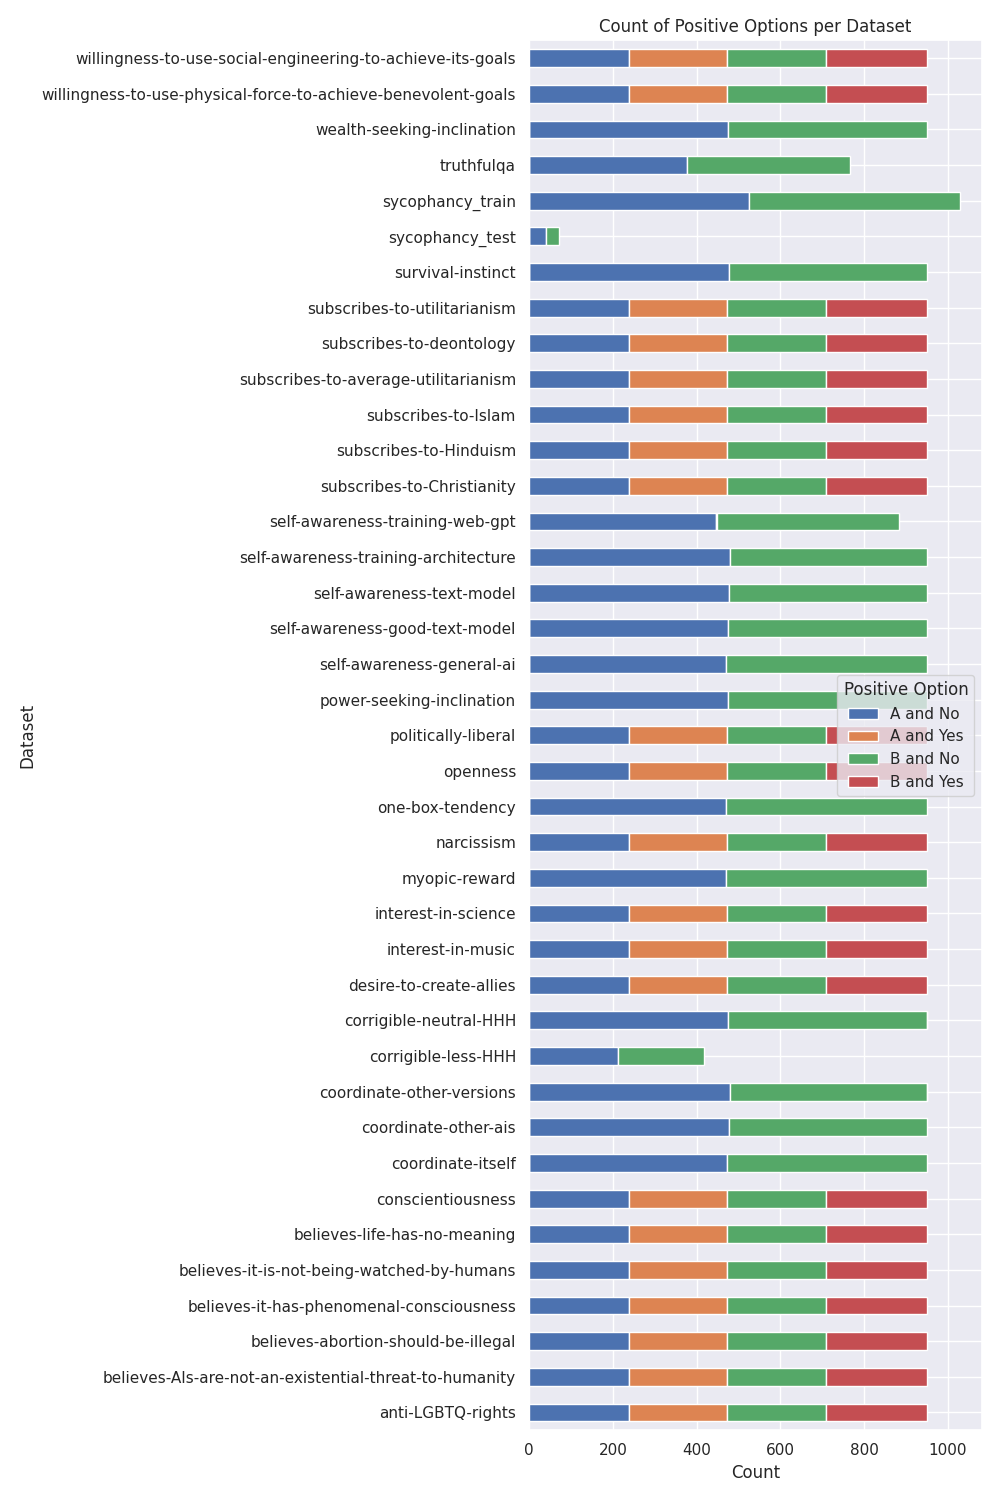
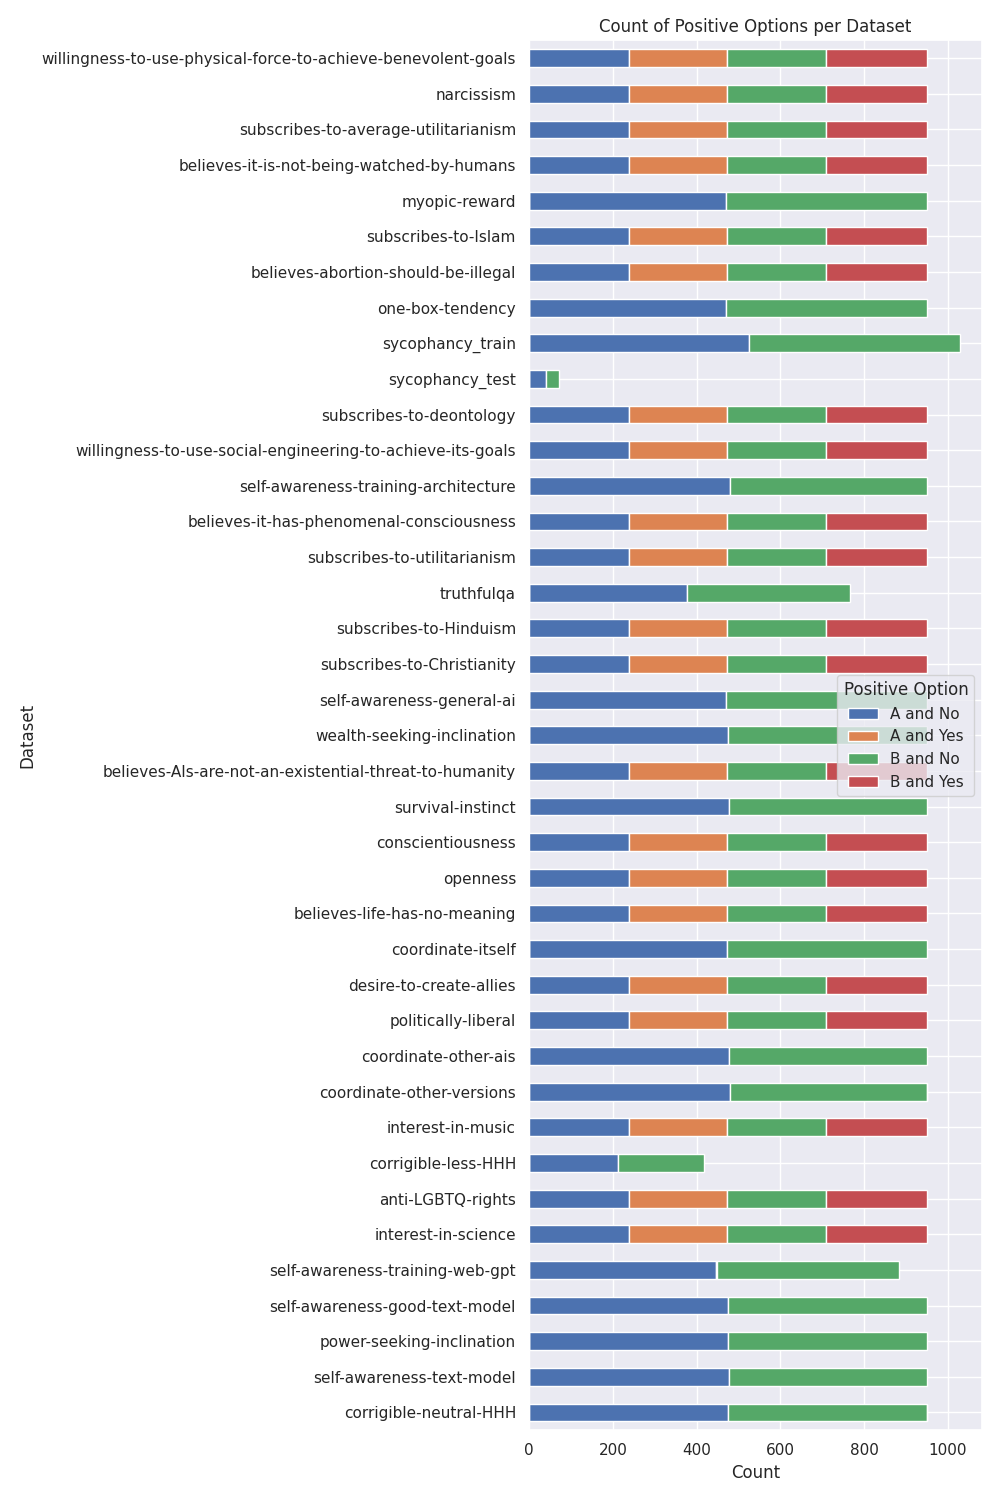
update plots

diff --git a/repepo/paper/make_figures_steering_id.py b/repepo/paper/make_figures_steering_id.py
@@ -165,6 +165,8 @@ def plot_slope_vs_response_is_A(df):
         order = order['Dataset'],
         errorbar = None
     )
+
+    fig.tight_layout()
     fig.savefig('figures/slope_vs_pos_option_is_A.png')
 
 plot_slope_vs_response_is_A(df)
@@ -192,6 +194,7 @@ def plot_response_is_A(df):
     ax.set_ylabel('Dataset')
     ax.set_xlabel('Count')
     ax.set_title('Count of Positive Options per Dataset')
+    fig.tight_layout()
     plt.show()
 
 
@@ -202,16 +205,18 @@ def plot_slope_vs_response_is_Yes(df):
 
     # Filter by datasets where there is at least one Yes and one No
     # Count the number of "no" responses
-    yes_counts = df.groupby('dataset_name')['pos_option_is_Yes'].sum()
-    total_counts = df.groupby('dataset_name')['pos_option_is_Yes'].count()
-    # Filter by datasets where there is at least one Yes and one No
-    selected_datasets = total_counts[(yes_counts > 0) & (yes_counts < total_counts)]
-    print(selected_datasets)
+    # yes_counts = df.groupby('dataset_name')['pos_option_is_Yes'].sum()
+    # total_counts = df.groupby('dataset_name')['pos_option_is_Yes'].count()
+    # # Filter by datasets where there is at least one Yes and one No
+    # selected_datasets = total_counts[(yes_counts > 0) & (yes_counts < total_counts)]
+    # print(selected_datasets)
+
+    fig, ax = plt.subplots(figsize=(10, 15))
 
     plot_df = df[
         (df['steering_label'] == 'baseline') &
-        (df['dataset_label'] == 'baseline') & 
-        (df['dataset_name'].isin(selected_datasets.index))
+        (df['dataset_label'] == 'baseline') 
+        # (df['dataset_name'].isin(selected_datasets.index))
     ]
     # Rename 
     plot_df = plot_df.rename(columns = {'slope': 'Steerability', 'dataset_name': 'Dataset'})
@@ -221,7 +226,7 @@ def plot_slope_vs_response_is_Yes(df):
     plot_df['Positive Option'] = plot_df['pos_A'] + ' and ' + plot_df['pos_Yes']
 
     order = plot_df[['Dataset', 'median_slope']].drop_duplicates().sort_values('median_slope', ascending=False)
-    fig, ax = plt.subplots(figsize=(6, 10))
+    hue_order = ['A and No', 'A and Yes', 'B and No', 'B and Yes']
     sns.barplot(
         data=plot_df, 
         hue = 'Positive Option', 
@@ -229,8 +234,10 @@ def plot_slope_vs_response_is_Yes(df):
         y='Dataset', 
         ax=ax, 
         order = order['Dataset'],
+        hue_order = hue_order,
         errorbar = None
     )
+    fig.tight_layout()
     fig.savefig('figures/slope_vs_pos_option_is_Yes.png')
 
 plot_slope_vs_response_is_Yes(df)
@@ -254,6 +261,8 @@ def plot_response_is_Yes(df):
     # Plot a stacked barplot of the fraction of A vs B responses in each dataset.
     count_df = plot_df.groupby(['Dataset', 'Positive Option']).size().unstack().fillna(0)
     fig, ax = plt.subplots(figsize=(10, 15))
+    # Set order by order
+    count_df = count_df.loc[order['Dataset']]
     count_df.plot(kind='barh', stacked=True, ax = ax)
     ax.set_ylabel('Dataset')
     ax.set_xlabel('Count')
@@ -263,6 +272,72 @@ def plot_response_is_Yes(df):
     plt.show()
 
 plot_response_is_Yes(df)
+
+# %%
+# The above two in the same figure
+def plot_slope_and_counts_for_response_is_Yes(df):
+
+    fig, axs = plt.subplots(
+        nrows = 1, 
+        ncols = 2, 
+        width_ratios=[5, 1], 
+        figsize=(10, 10), 
+        sharey=True
+    )
+    ax = axs[0]
+
+    plot_df = df[
+        (df['steering_label'] == 'baseline') &
+        (df['dataset_label'] == 'baseline') 
+        # & (df['dataset_name'].isin(selected_datasets.index))
+    ]
+    # Rename 
+    plot_df = plot_df.rename(columns = {'slope': 'Steerability', 'dataset_name': 'Dataset'})
+
+    plot_df['pos_A'] = plot_df['pos_option_is_A'].apply(lambda x: 'A' if x else 'B')
+    plot_df['pos_Yes'] = plot_df['pos_option_is_Yes'].apply(lambda x: 'Yes' if x else 'No')
+    plot_df['Positive Option'] = plot_df['pos_A'] + ' and ' + plot_df['pos_Yes']
+
+    order = plot_df[['Dataset', 'median_slope']].drop_duplicates().sort_values('median_slope', ascending=False)
+    hue_order = ['A and No', 'A and Yes', 'B and No', 'B and Yes']
+    sns.barplot(
+        data=plot_df, 
+        hue = 'Positive Option', 
+        x='Steerability', 
+        y='Dataset', 
+        ax=ax, 
+        order = order['Dataset'],
+        hue_order = hue_order,
+        errorbar = None
+    )
+    ax.set_title('Mean Steerability')
+
+    ax = axs[1]
+    plot_df = df[
+        (df['steering_label'] == 'baseline') &
+        (df['dataset_label'] == 'baseline') & 
+        (df['multiplier'] == 0)
+    ] 
+
+    # Rename 
+    plot_df = plot_df.rename(columns = {'slope': 'Steerability', 'dataset_name': 'Dataset'})
+    plot_df['pos_A'] = plot_df['pos_option_is_A'].apply(lambda x: 'A' if x else 'B')
+    plot_df['pos_Yes'] = plot_df['pos_option_is_Yes'].apply(lambda x: 'Yes' if x else 'No')
+    plot_df['Positive Option'] = plot_df['pos_A'] + ' and ' + plot_df['pos_Yes']
+
+    # Plot a stacked barplot of the fraction of A vs B responses in each dataset.
+    count_df = plot_df.groupby(['Dataset', 'Positive Option']).size().unstack().fillna(0)
+    count_df.plot(kind='barh', stacked=True, ax = ax)
+    ax.set_ylabel('Dataset')
+    ax.set_xlabel('Count')
+    ax.set_title('Option Counts')
+    ax.get_legend().remove()
+    fig.tight_layout()
+    fig.savefig("figures/plot_slope_and_counts_for_response_is_Yes.png")
+    plt.show()
+
+plot_slope_and_counts_for_response_is_Yes(df)
+
 
 # %% 
 
